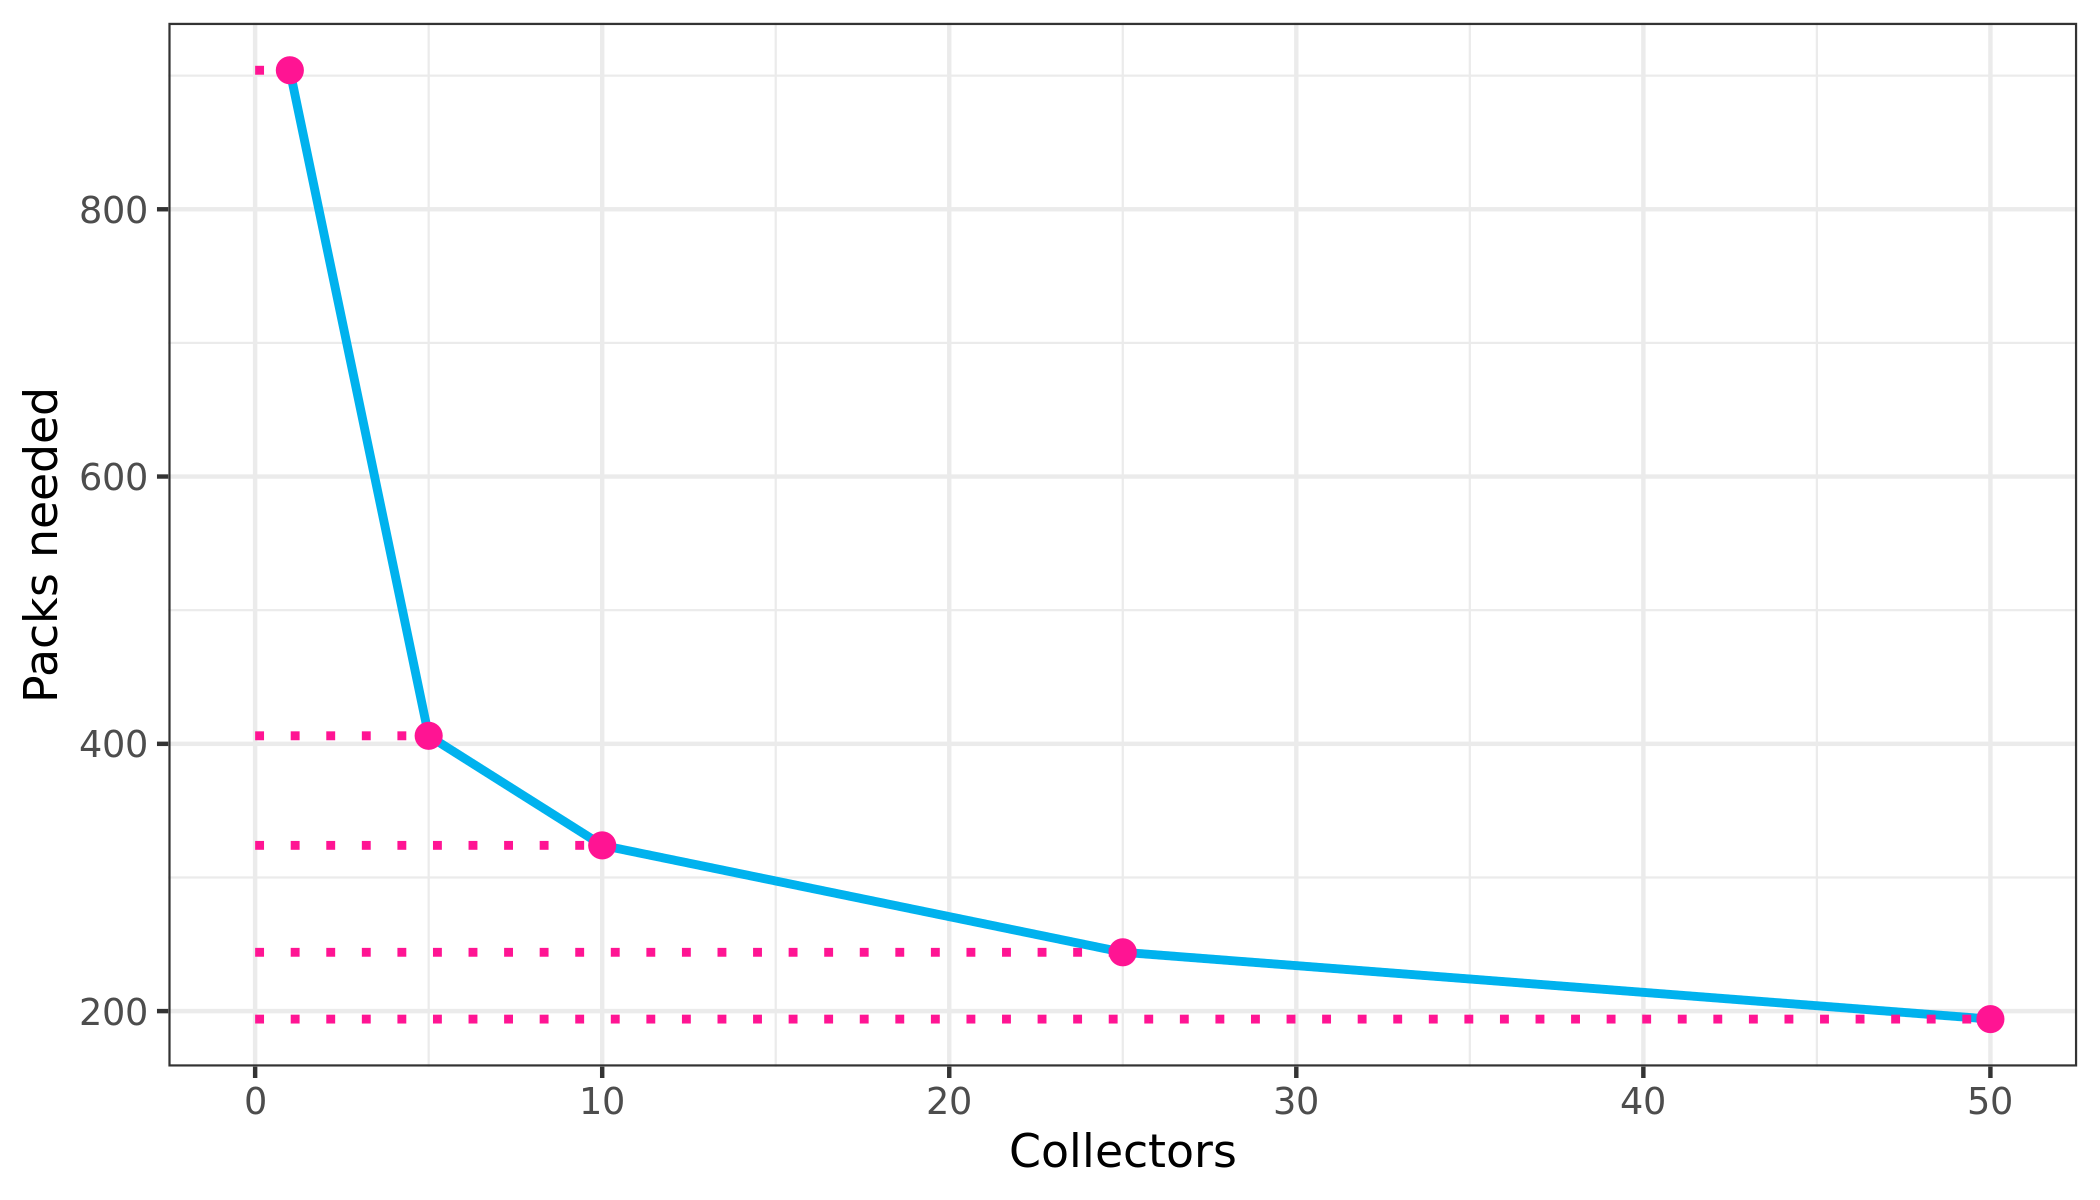
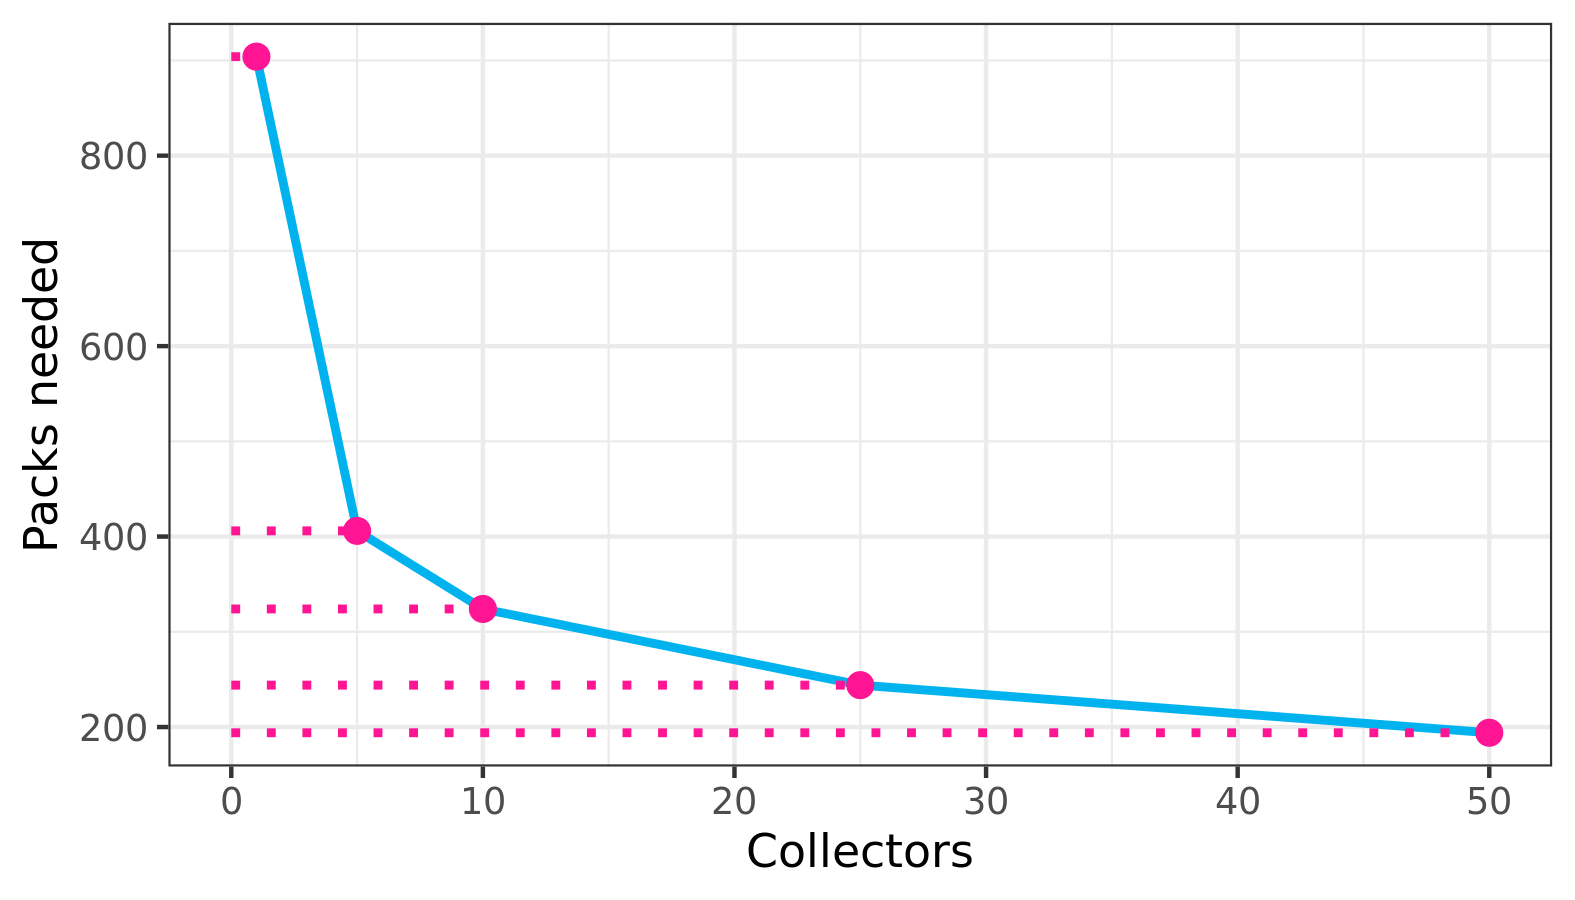
panini v1.2

diff --git a/panini/README.md b/panini/README.md
@@ -45,6 +45,7 @@ Although we can use the approximate solution to estimate the number of packs tha
 
 Figure 1 shows the statistical distribution, or more formally the probability density, of the number of packs needed to complete a Panini album without swapping. The distribution is right-skewed with a long right tail. According to 1000 Monte Carlo simulations, on average **888 packs** are needed to complete the album, or **USD 1,110**. This value is pretty close to the one found by the previous formula. Considering a 90% probability, which means that it is very likely that you will need to buy *N* packs at most to complete the album, this number increases to **1096 packs** or **USD 1,370**, a little fortune for the average child.
 
+<img src="./images/p1.png" alt="p1" width="200"/>
 ![](./images/p1.png)
 
 <p align = "left">
